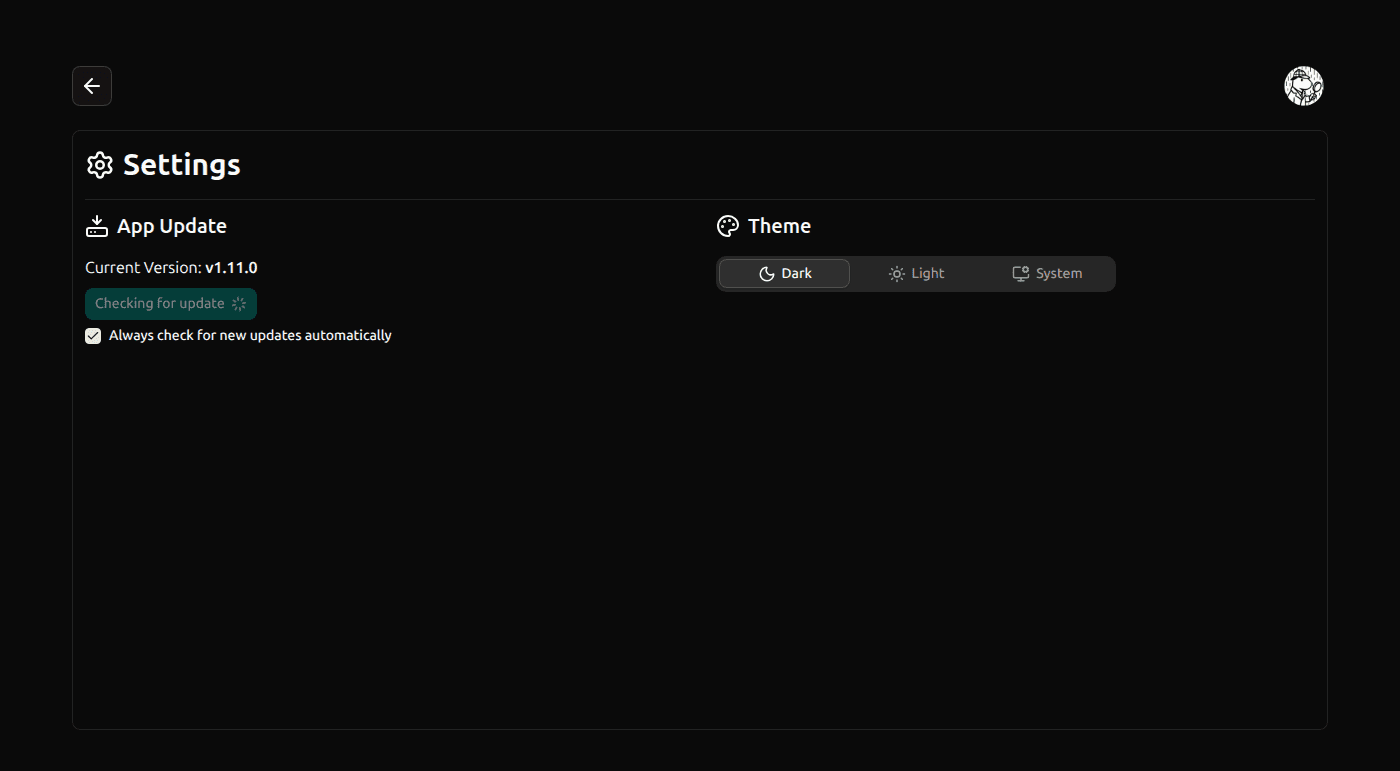
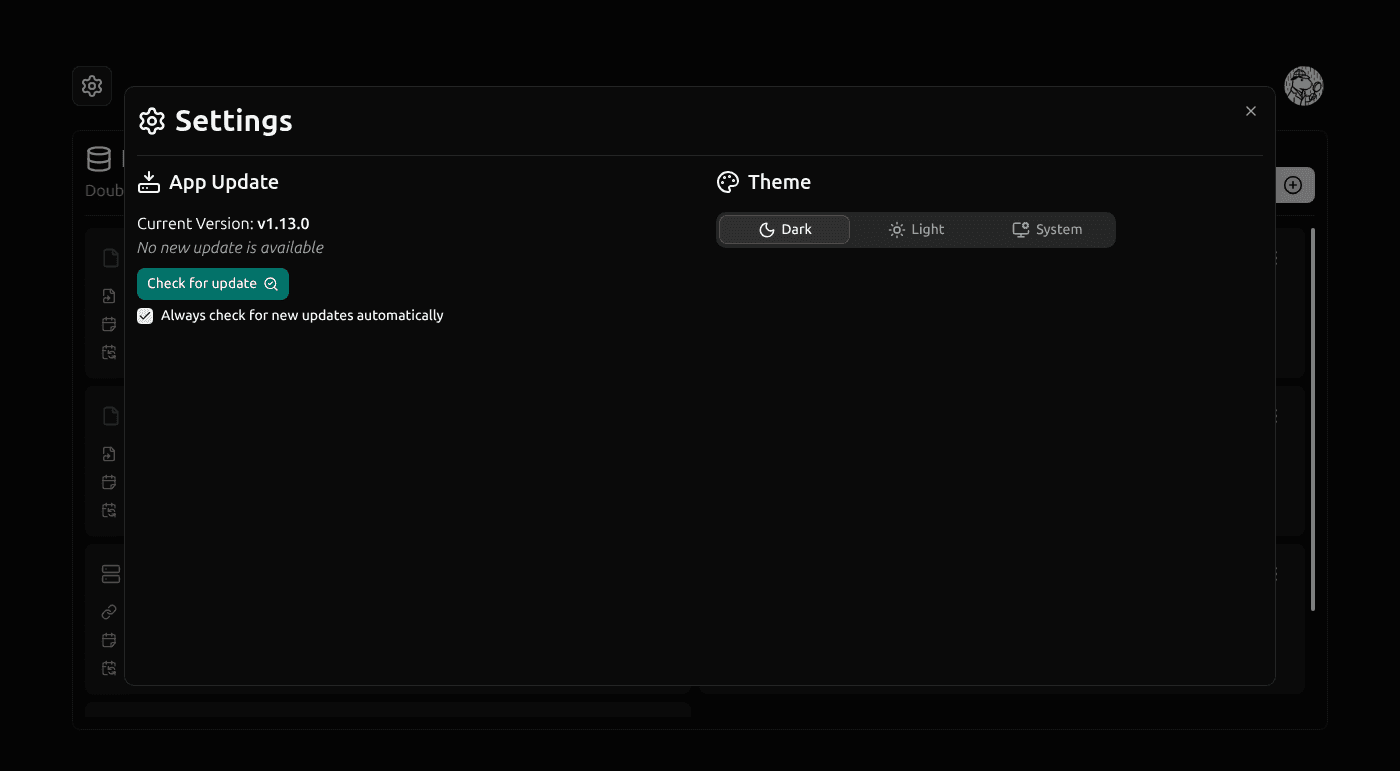
chore(README.md): refer to screenshots document & update settings page screenshots.

diff --git a/README.md b/README.md
@@ -18,6 +18,8 @@ It's like using **"MongoDB Compass"** with **MongoDB**, **"Redis Insight"** with
 ![Add Entry Form screenshot (Dark)](./screenshots/AddKvEntryForm_dark.png#gh-dark-mode-only)
 ![Add Entry Form screenshot (Light)](./screenshots/AddKvEntryForm_light.png#gh-light-mode-only)
 
+For more screenshots about how this app looks like, check out [screenshots](./screenshots/SCREENSHOTS.md).
+
 ## Download
 
 **_Always recommended to download from the latest release_**
